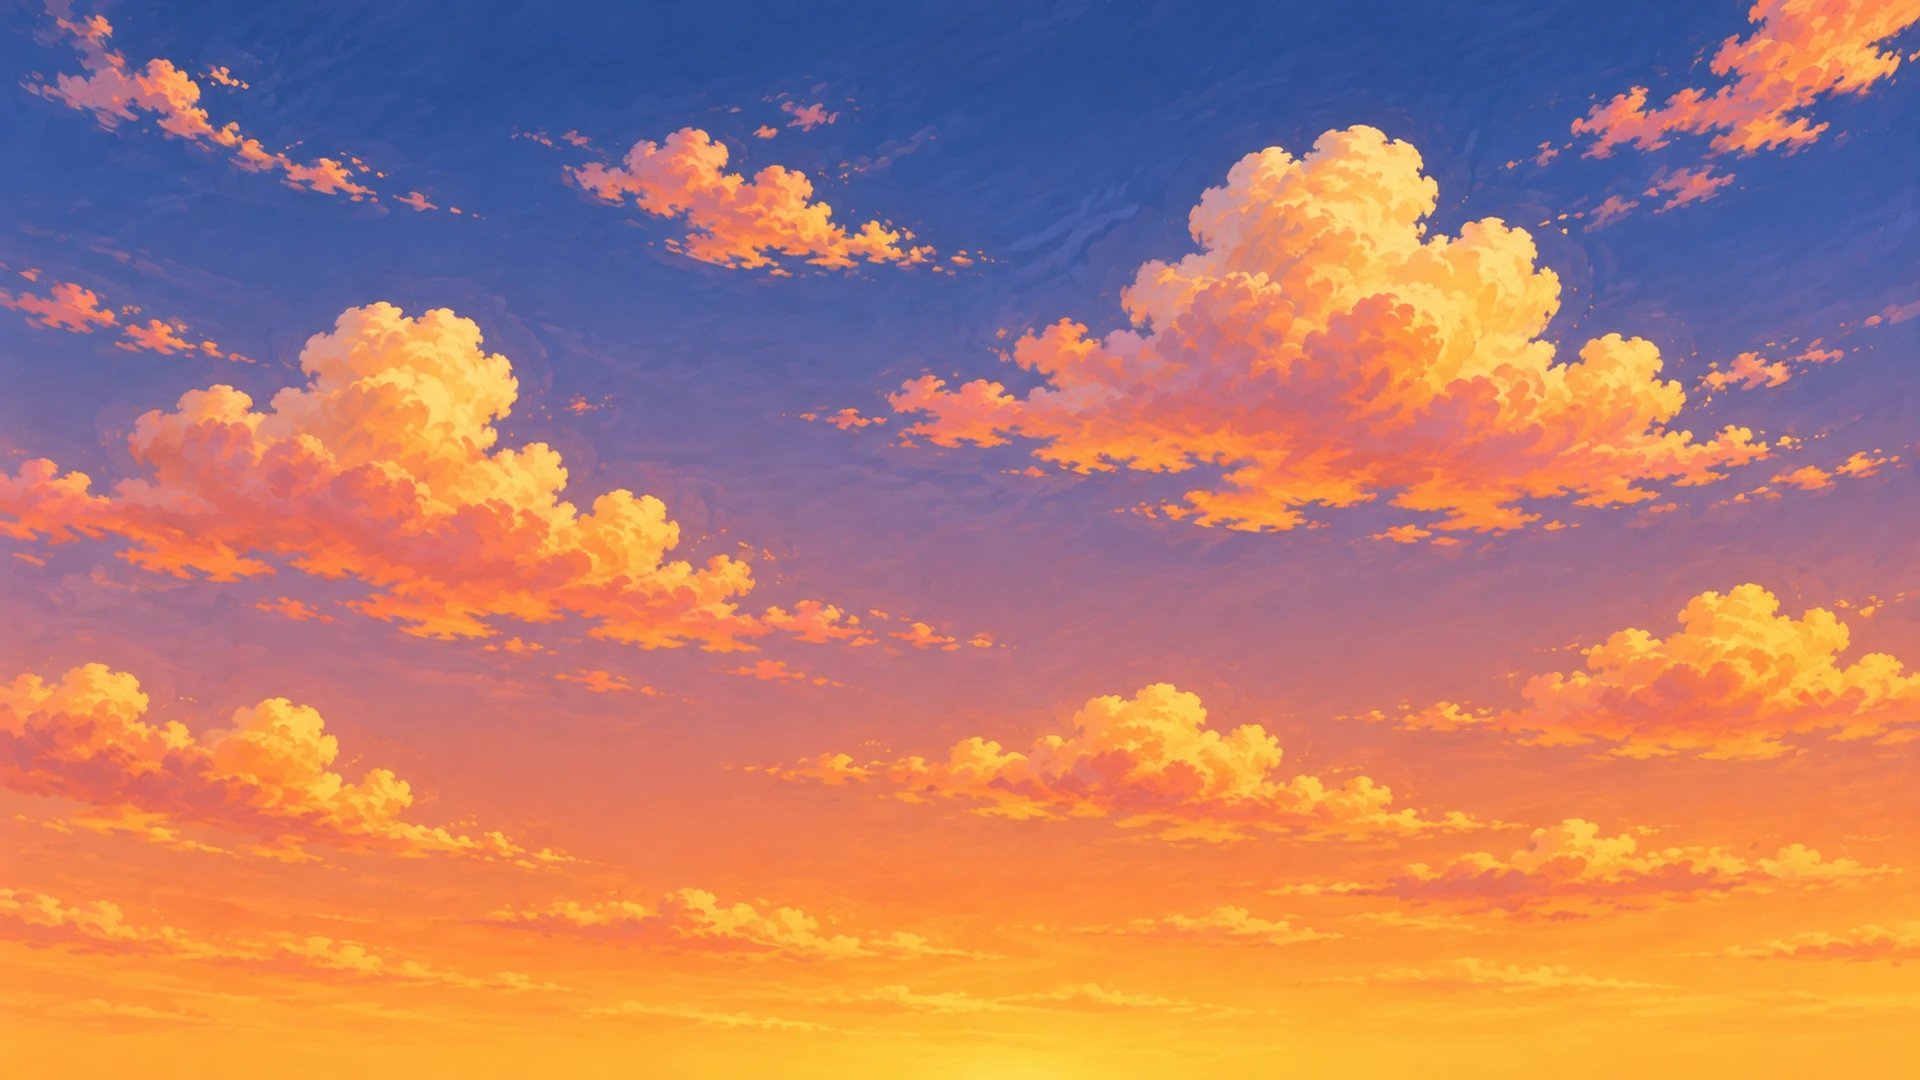
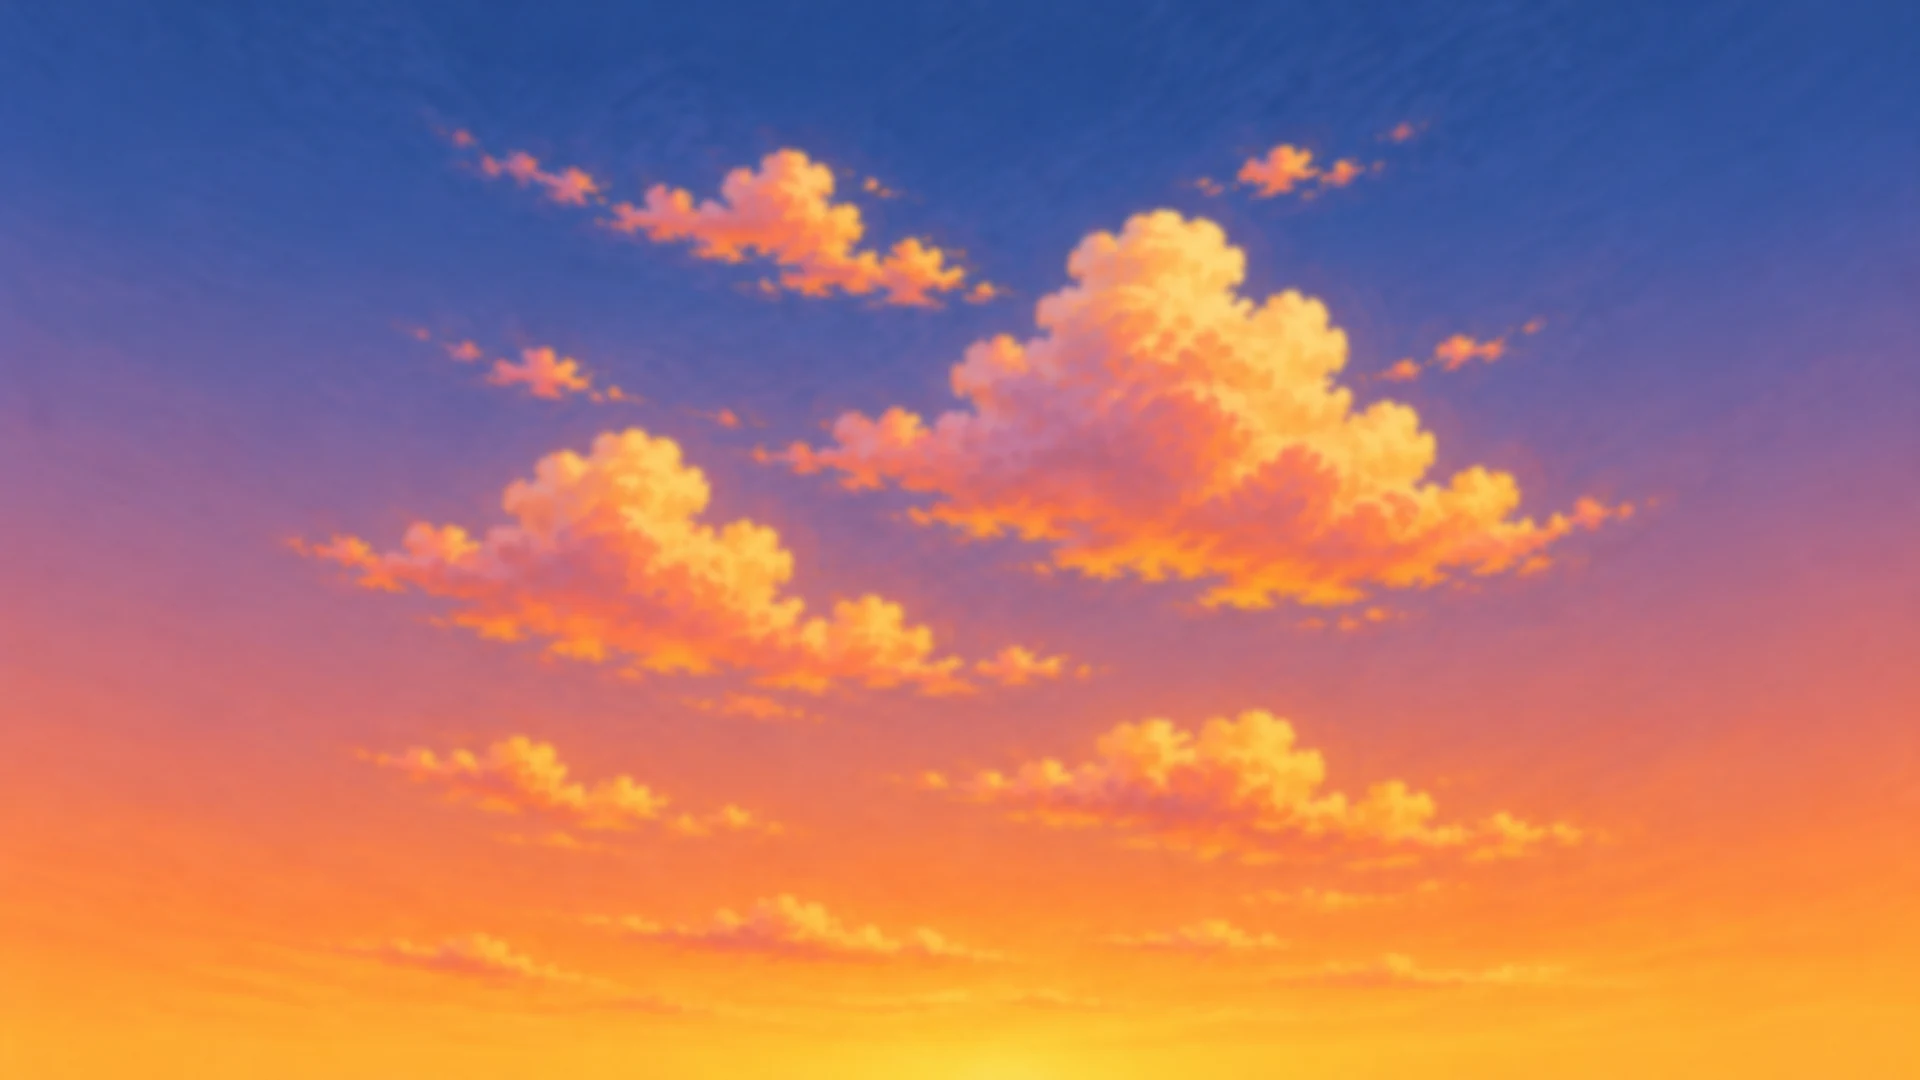
Time of day polish: instant staggered lights, 3s blend, gentler evening grade, new evening sky
Lights switch instantly around the middle of the blend instead of fading, the
blend is 3s, the evening grade is pulled back, Morning gets an edge dissolve,
and Evening is regenerated with cloud-free edges and the Afternoon's 3px blur.

diff --git a/src/game/scenes/BoulevardSpikeScene.ts b/src/game/scenes/BoulevardSpikeScene.ts
@@ -15,7 +15,7 @@ import {
 } from '../BirdFlight';
 import { isPictureCovered } from '../PictureCover';
 import { skyTileCount, skyTileLayout, SKY_DRIFT_PX_PER_SEC } from '../SkyDrift';
-import { blendLooks, easeInOut, TIME_FADE_MS, TIME_LOOKS, TIME_SKY_PATHS, type TimeLook } from '../TimeOfDay';
+import { blendLooks, easeInOut, lightFlipTimes, TIME_FADE_MS, TIME_LOOKS, TIME_SKY_PATHS, type TimeLook } from '../TimeOfDay';
 import type { TimeSlot } from '../../domain/TimeSystem';
 import {
   DEFAULT_WALK_CYCLE,
@@ -103,12 +103,15 @@ function buildingActiveKey(id: string): string {
  * Only buildings with an active-state texture are tracked. */
 interface DynamicBuilding {
   readonly image: Phaser.GameObjects.Image;
-  /** The active art, laid over the default art and faded in and out (rather than swapped) when the building lights up or goes dark. */
+  /** The active art, laid over the default art: shown (alpha 1) while the building is lit, hidden (alpha 0) otherwise. */
   readonly overlay: Phaser.GameObjects.Image;
   readonly rule: BoulevardActiveRule;
+  /** Whether the building should be lit for the current career state. */
   active: boolean;
-  /** What the overlay is fading toward (or has reached): 1 while active, 0 otherwise. */
-  shownTarget: number;
+  /** Whether the overlay is showing now. A light switches instantly, so this lags `active` only until its moment in a time change. */
+  lit: boolean;
+  /** The state the last time change set this light to go to (`lit` is already there, or will be when its moment comes). */
+  scheduled: boolean;
 }
 
 /** A single interactable point along the Boulevard: proximity radius,
@@ -171,6 +174,7 @@ export class BoulevardSpikeScene extends Phaser.Scene {
    * career or a load) rather than fade. The grade is two full-picture rectangles, one multiplying (tint, dim) and one adding (glow). */
   private timeSlot: TimeSlot | undefined;
   private timeBlend: Phaser.Tweens.Tween | undefined;
+  private lightTimers: Phaser.Time.TimerEvent[] = [];
   private appliedLook: TimeLook = TIME_LOOKS.afternoon;
   private snapTime = true;
   private gradeMultiply!: Phaser.GameObjects.Rectangle;
@@ -225,6 +229,7 @@ export class BoulevardSpikeScene extends Phaser.Scene {
     // The scene is reused across a new career and Continue, so the time-of-day state starts fresh each time.
     this.timeSlot = undefined;
     this.timeBlend = undefined;
+    this.lightTimers = [];
     this.appliedLook = TIME_LOOKS.afternoon;
     this.snapTime = true;
     this.skyFadeCount = 0;
@@ -448,7 +453,7 @@ export class BoulevardSpikeScene extends Phaser.Scene {
           .setScale(building.scale)
           .setDepth(building.depth + 0.01)
           .setAlpha(0);
-        this.dynamicBuildings.push({ image, overlay, rule: building.activeWhen, active: false, shownTarget: 0 });
+        this.dynamicBuildings.push({ image, overlay, rule: building.activeWhen, active: false, lit: false, scheduled: false });
       }
     }
 
@@ -655,23 +660,23 @@ export class BoulevardSpikeScene extends Phaser.Scene {
     for (const building of this.dynamicBuildings) building.active = isBuildingActive(building.rule, this.careerState);
   }
 
-  /** Brings the picture to the time of day in the career state: the sky for that time fades in over the one showing, the colour grade
-   * eases to its look, and each building's lit art fades in or out, all together over TIME_FADE_MS. The first call after a new career or
-   * a load (and any call with reduced motion on) jumps straight there instead. A change that arrives mid-fade carries on from where the
-   * picture is now. */
+  /** Brings the picture to the time of day in the career state: the sky for that time fades in over the one showing and the colour grade
+   * eases to its look, together over TIME_FADE_MS. Building lights do not fade (a light is on or it is off): each switches instantly, at
+   * its own moment around the middle of the blend (see lightFlipTimes). The first call after a new career or a load (and any call with
+   * reduced motion on) jumps straight there instead. A change that arrives mid-blend carries on from where the picture is now. */
   private syncTimeOfDay(): void {
     const slot = this.careerState.time.slot;
-    const lightsChanged = this.dynamicBuildings.some((building) => building.shownTarget !== (building.active ? 1 : 0));
+    const lightsChanged = this.dynamicBuildings.some((building) => building.scheduled !== building.active);
     if (slot === this.timeSlot && !lightsChanged) return;
     const animate = this.timeSlot !== undefined && !this.snapTime && !this.settings.reducedMotion;
     this.timeSlot = slot;
     this.snapTime = false;
     this.timeBlend?.stop();
+    for (const timer of this.lightTimers) timer.remove(false);
+    this.lightTimers = [];
 
     const fromLook = this.appliedLook;
     const toLook = TIME_LOOKS[slot];
-    const fromLights = this.dynamicBuildings.map((building) => building.overlay.alpha);
-    for (const building of this.dynamicBuildings) building.shownTarget = building.active ? 1 : 0;
 
     const incoming = this.skyLayers.get(slot) ?? this.skyLayers.get('afternoon');
     const changesSky = incoming !== undefined && incoming !== this.skyTop;
@@ -687,13 +692,15 @@ export class BoulevardSpikeScene extends Phaser.Scene {
     const apply = (t: number): void => {
       if (changesSky && incoming !== undefined) incoming.forEach((tile) => tile.setAlpha(t));
       this.applyLook(blendLooks(fromLook, toLook, t));
-      this.dynamicBuildings.forEach((building, index) => {
-        const from = fromLights[index] ?? 0;
-        building.overlay.setAlpha(from + (building.shownTarget - from) * t);
-      });
     };
+    const switchLight = (building: DynamicBuilding): void => {
+      building.lit = building.scheduled;
+      building.overlay.setAlpha(building.lit ? 1 : 0);
+    };
+    for (const building of this.dynamicBuildings) building.scheduled = building.active;
     const finish = (): void => {
       apply(1);
+      for (const building of this.dynamicBuildings) if (building.lit !== building.active) switchLight(building);
       if (!changesSky || incoming === undefined) return;
       this.skyTop = incoming;
       for (const tiles of this.skyLayers.values()) if (tiles !== incoming) this.setSkyLayer(tiles, 0);
@@ -704,6 +711,11 @@ export class BoulevardSpikeScene extends Phaser.Scene {
       return;
     }
     apply(0);
+    const flipTimes = lightFlipTimes(this.dynamicBuildings.length);
+    this.dynamicBuildings.forEach((building, index) => {
+      if (building.lit === building.active) return;
+      this.lightTimers.push(this.time.delayedCall(flipTimes[index] ?? TIME_FADE_MS / 2, () => switchLight(building)));
+    });
     this.timeBlend = this.tweens.addCounter({
       from: 0,
       to: 1,

diff --git a/tests/time-of-day.test.ts b/tests/time-of-day.test.ts
@@ -3,7 +3,7 @@ import { readFileSync } from 'node:fs';
 
 import { describe, expect, it } from 'vitest';
 
-import { blendLooks, easeInOut, lerpColor, TIME_FADE_MS, TIME_LOOKS, TIME_SKY_PATHS } from '../src/game/TimeOfDay';
+import { blendLooks, easeInOut, lerpColor, lightFlipTimes, TIME_FADE_MS, TIME_LOOKS, TIME_SKY_PATHS } from '../src/game/TimeOfDay';
 
 describe('time of day looks', () => {
   it('leave the afternoon exactly as drawn, and give morning and evening their own grade', () => {
@@ -17,9 +17,9 @@ describe('time of day looks', () => {
     expect(blue(TIME_LOOKS.morning.multiply)).toBeGreaterThan(red(TIME_LOOKS.morning.multiply));
   });
 
-  it('fade over one to two seconds', () => {
+  it('fade over one to four seconds', () => {
     expect(TIME_FADE_MS).toBeGreaterThanOrEqual(1000);
-    expect(TIME_FADE_MS).toBeLessThanOrEqual(2000);
+    expect(TIME_FADE_MS).toBeLessThanOrEqual(4000);
   });
 
   it('blend colours channel by channel and land exactly on both ends', () => {
@@ -41,6 +41,19 @@ describe('time of day looks', () => {
   });
 });
 
+describe('building light timing', () => {
+  it('spreads the switches around the middle of the blend, in a fixed order', () => {
+    const times = lightFlipTimes(4);
+    expect(times).toEqual(lightFlipTimes(4));
+    expect(new Set(times).size).toBe(4);
+    for (const t of times) {
+      expect(t).toBeGreaterThanOrEqual(TIME_FADE_MS / 2 - 500);
+      expect(t).toBeLessThanOrEqual(TIME_FADE_MS / 2 + 500);
+    }
+    expect(lightFlipTimes(1, 3000, 1000)).toEqual([1000]);
+  });
+});
+
 describe('the scene and the time of day', () => {
   const scene = readFileSync(new URL('../src/game/scenes/BoulevardSpikeScene.ts', import.meta.url), 'utf8');
 
@@ -49,9 +62,11 @@ describe('the scene and the time of day', () => {
     expect(scene).toContain('Object.entries(TIME_SKY_PATHS)');
   });
 
-  it('fades lit building art over the default art rather than swapping textures', () => {
-    expect(scene).toContain('overlay');
+  it('switches lit building art on and off instantly, never fading it', () => {
+    expect(scene).toContain('overlay.setAlpha(building.lit ? 1 : 0)');
+    expect(scene).toContain('lightFlipTimes(this.dynamicBuildings.length)');
     expect(scene).not.toContain('building.image.setTexture');
+    expect(scene).not.toContain('fromLights');
   });
 
   it('jumps straight to the right look after a load or a new career, and fades on any other change', () => {

diff --git a/src/game/TimeOfDay.ts b/src/game/TimeOfDay.ts
@@ -1,7 +1,7 @@
 import type { TimeSlot } from '../domain/TimeSystem';
 
 /** How long the whole scene takes to blend from one time of day to the next: sky, grade and lit windows together. */
-export const TIME_FADE_MS = 1500;
+export const TIME_FADE_MS = 3000;
 
 /** The Afternoon sky is the Boulevard's own sky plane; Morning and Evening are extra skies swapped in over it. Both are optional at
  * runtime: until the art is promoted into public/assets, the Afternoon sky stands in and the grade alone carries the mood. */
@@ -23,8 +23,8 @@ export const TIME_LOOKS: Readonly<Record<TimeSlot, TimeLook>> = {
   morning: { multiply: 0xe6edf6, glow: 0xb8c6dc, glowAlpha: 0.08 },
   // The scene as drawn.
   afternoon: { multiply: 0xffffff, glow: 0xffffff, glowAlpha: 0 },
-  // Golden hour: warm, with a little less blue, and a low amber glow.
-  evening: { multiply: 0xffcfa0, glow: 0xff8c30, glowAlpha: 0.1 },
+  // Golden hour, kept gentle: a touch warmer than the afternoon, with a low amber wash (option B of the 2026-10-01 review).
+  evening: { multiply: 0xffe6c8, glow: 0xffb454, glowAlpha: 0.05 },
 };
 
 function channel(color: number, shift: number): number {
@@ -48,4 +48,14 @@ export function blendLooks(from: TimeLook, to: TimeLook, t: number): TimeLook {
 export function easeInOut(t: number): number {
   const x = Math.min(1, Math.max(0, t));
   return x * x * (3 - 2 * x);
+}
+
+/** When, in ms from the start of a time change, each of `count` building lights switches. Lights switch instantly (a bulb is on or off),
+ * not fade, but not all in the same instant either: they are spread over `spreadMs` centred on the middle of the blend, in a fixed
+ * order (golden-ratio spacing) so the street does not switch in unison and the same light always goes at the same moment. */
+export function lightFlipTimes(count: number, fadeMs: number = TIME_FADE_MS, spreadMs = 1000): number[] {
+  return Array.from({ length: count }, (_, index) => {
+    const unit = (index * 0.6180339887) % 1;
+    return Math.round(fadeMs / 2 + (unit - 0.5) * spreadMs);
+  });
 }

diff --git a/art/prompts/boulevard-sky-times-of-day.md b/art/prompts/boulevard-sky-times-of-day.md
@@ -4,7 +4,7 @@ Status: **Generated 2026-10-01; converted and promoted to runtime 2026-10-01 at 
 
 ## Role in the game
 
-The Boulevard scene's sky (`public/assets/environments/boulevard-v3/sky.webp`) is the Afternoon sky. These two add Morning and Evening. The scene crossfades between the three over about 1.5 seconds when the time slot changes, and grades the rest of the scene to match (see `src/game/TimeOfDay.ts`). The sky is the bottom layer, so unlike characters and props it is a full-frame opaque image: the "transparent background, no glow" rule for cutouts does not apply to it.
+The Boulevard scene's sky is the Afternoon sky: `public/assets/environments/boulevard-v3/sky-blur.webp`, the manifest's sky plane (a 3px Gaussian blur of `sky.webp`, added in b478002). These two add Morning and Evening. The scene crossfades between the three over about 1.5 seconds when the time slot changes, and grades the rest of the scene to match (see `src/game/TimeOfDay.ts`). The sky is the bottom layer, so unlike characters and props it is a full-frame opaque image: the "transparent background, no glow" rule for cutouts does not apply to it.
 
 ## Visual brief
 
@@ -38,7 +38,7 @@ reference_asset_ids: boulevard_v3_sky (public/assets/environments/boulevard-v3/s
 generation_tool_and_version: gpt-image-2 via gg-image (Codex ChatGPT backend), --quality high
 generation_date: 2026-10-01
 raw_source_location: art/generated/sky-morning.png
-human_edits: resized 1672x941 -> 1920x1080 (Lanczos), converted to WebP quality 88
+human_edits: resized 1672x941 -> 1920x1080 (Lanczos); edge dissolve (see Seam fix below); converted to WebP quality 88
 review_status: promoted at the owner's request; in-game review pending
 rights_or_license_notes: project-owned development generation; human rights/provenance review required.
 runtime_files: public/assets/environments/boulevard-v3/sky-morning.webp
@@ -52,8 +52,33 @@ reference_asset_ids: boulevard_v3_sky, style only
 generation_tool_and_version: gpt-image-2 via gg-image (Codex ChatGPT backend), --quality high
 generation_date: 2026-10-01
 raw_source_location: art/generated/sky-evening.png
-human_edits: resized 1672x941 -> 1920x1080 (Lanczos), converted to WebP quality 88
+human_edits: resized 1672x941 -> 1920x1080 (Lanczos); edge dissolve (see Seam fix below); converted to WebP quality 88
 review_status: promoted at the owner's request; in-game review pending
 rights_or_license_notes: project-owned development generation; human rights/provenance review required.
 runtime_files: public/assets/environments/boulevard-v3/sky-evening.webp
 ```
+
+## Seam fix (2026-10-01)
+
+The sky tiles alternate with their mirror image (`src/game/SkyDrift.ts`), so any cloud that runs diagonally at a tile edge meets its reflection in a V. All three skies (Morning, Afternoon, Evening) now have the outer 20% of each side blended toward the sky's own horizontal colour gradient (a 6-column average of each row, blended with weight `(1 - x/band)^1.3`), so clouds dissolve into plain sky at the seam. The Afternoon sky's original is kept at `art/generated/sky-afternoon-original.webp`; the live `sky.webp` was rebuilt from it and re-encoded at WebP quality 88. Review images: `art/review/` (untracked).
+
+## Evening grade
+
+The Evening colour grade (`TIME_LOOKS.evening` in `src/game/TimeOfDay.ts`) is option B of the 2026-10-01 review: tint `#ffe6c8`, glow `#ffb454` at 5%. The first version (`#ffcfa0`, `#ff8c30` at 10%) was too red.
+## Evening sky, round 2 (2026-10-01)
+
+The dissolved first Evening sky looked smeared at its edges, below the fidelity of the rest of the image. Regenerated with a composition rule instead of a post-process: all clouds within the central 60% of the width, nothing but clean sunset gradient in the outer 20% on each side (the tiles alternate with their mirror image, so both edges meet a reflection). One take, accepted. No dissolve is applied to this one; the edge strips measure about 1.8 (row-wise brightness deviation) against about 14 in the middle.
+
+Same prompt as Evening above plus, before the sun sentence: "IMPORTANT COMPOSITION RULE: all clouds must sit within the central 60 percent of the frame width. The outer 20 percent strip on the far left and the outer 20 percent strip on the far right must contain NO clouds, NO streaks and NO cloud wisps at all, only the clean smooth painted sunset gradient (same brush texture) continuing unbroken up to the left and right edges, with the colours at the left edge matching the colours at the right edge row for row." Reference: `art/generated/sky-evening.png` for style and palette only, with the instruction not to copy its cloud layout near the edges.
+
+```text
+asset_id: boulevard_sky_evening_v2
+raw_source_location: art/generated/sky-evening-v2.png (1672x941; round 1 kept at art/generated/sky-evening.png)
+human_edits: resized to 1920x1080 (Lanczos), WebP quality 88; no dissolve
+review_status: promoted at the owner's request; in-game review pending
+runtime_files: public/assets/environments/boulevard-v3/sky-evening.webp (replaces the round 1 version)
+```
+
+## Correction and Evening blur (2026-10-01)
+
+The game's Afternoon sky is `sky-blur.webp`, not `sky.webp`. The edge dissolve described under "Seam fix" was applied to `sky.webp`, which the game does not use, so the in-game Afternoon sky has not had it; `sky.webp` has been restored to its original (the backup `art/generated/sky-afternoon-original.webp` is identical). Morning and Evening are the skies the dissolve and the round 2 regeneration apply to. The in-game Afternoon sky is slightly blurred, so the Evening sky now gets the same 3px Gaussian blur as `sky-blur.webp` (applied after the resize to 1920x1080, before the WebP encode at quality 88). Morning is unchanged.
